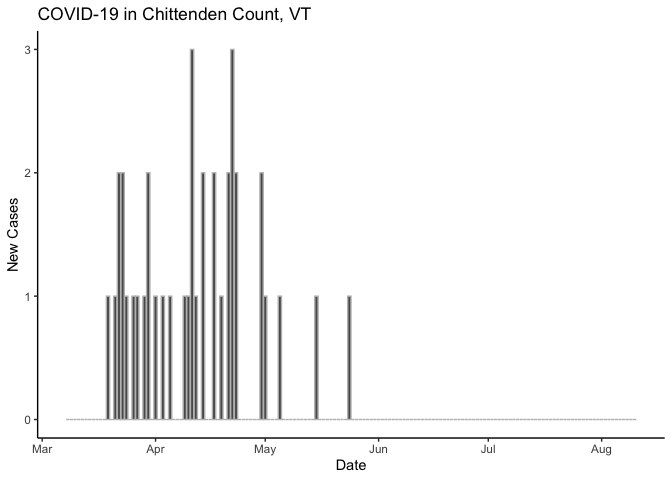
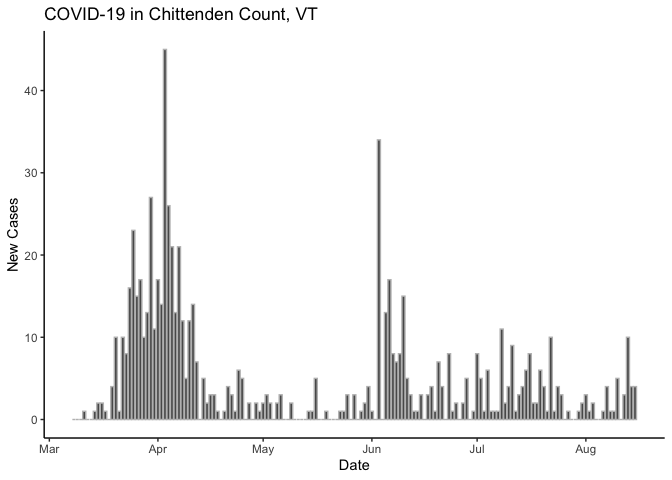
updates through 2020-08-15

diff --git a/chittenden-covid-plots.md b/chittenden-covid-plots.md
@@ -1,0 +1,59 @@
+    CHITTENDEN_DATA_URL <- "https://services1.arcgis.com/BkFxaEFNwHqX3tAw/arcgis/rest/services/VIEW_EPI_CountyDailyCountTS_PUBLIC/FeatureServer/0/query?where=CNTYGEOID%3D50007&outFields=date,C_New,D_New&returnGeometry=false&outSR=4326&f=json"
+
+
+    getLatestCovidData <- function() {
+      res <- httr::GET(CHITTENDEN_DATA_URL)
+      jsonlite::fromJSON(httr::content(res, "text"))$features$attributes %>%
+        rename(new_cases=C_New, new_deaths=D_New) %>%
+        mutate(date = as.POSIXct(date/1000, origin="1970-01-01"))  
+    }
+
+    covid <- getLatestCovidData()
+    tail(covid)
+
+    ##           date new_cases new_deaths
+    ## 156 2020-08-10         5          0
+    ## 157 2020-08-11         0          0
+    ## 158 2020-08-12         3          0
+    ## 159 2020-08-13        10          0
+    ## 160 2020-08-14         4          0
+    ## 161 2020-08-15         4          0
+
+    ggplot(covid) +
+      geom_bar(aes(x=date, y=new_cases), stat='identity', color='gray') +
+      labs(x="Date", y="New Cases", title="COVID-19 in Chittenden Count, VT") +
+      theme_classic()
+
+![](chittenden-covid-plots_files/figure-markdown_strict/unnamed-chunk-3-1.png)
+
+    ggplot(covid) +
+      geom_bar(aes(x=date, y=new_deaths), stat='identity', color='gray') +
+      labs(x="Date", y="New Cases", title="COVID-19 in Chittenden Count, VT") +
+      theme_classic()
+
+![](chittenden-covid-plots_files/figure-markdown_strict/unnamed-chunk-4-1.png)
+
+    ggplot(covid) +
+      geom_bar(aes(x=date, y=new_cases), stat='identity', color='gray') +
+      geom_line(aes(x=date, y=cumsum(new_cases)), color="gray") +
+      labs(x="Date", y="New Cases", title="COVID-19 in Chittenden Count, VT") +
+      theme_minimal()
+
+![](chittenden-covid-plots_files/figure-markdown_strict/unnamed-chunk-5-1.png)
+
+    ggplot(covid %>% mutate(active_cases = RcppRoll::roll_sumr(new_cases, n=14) / 163774 * 100000)) +
+      geom_bar(aes(x=date, y=active_cases), stat='identity', color="gray") +
+      labs(x="Date", y="New Cases, Last 14 Days", title="COVID-19 in Chittenden Count, VT") +
+      theme_minimal()
+
+    ## Warning: Removed 13 rows containing missing values (position_stack).
+
+![](chittenden-covid-plots_files/figure-markdown_strict/unnamed-chunk-6-1.png)
+
+    ggplot(covid) +
+      geom_bar(aes(x=date, y=new_deaths), stat='identity', color='gray') +
+      geom_line(aes(x=date, y=cumsum(new_deaths)), color="gray") +
+      labs(x="Date", y="New Deaths", title="COVID-19 in Chittenden Count, VT") +
+      theme_minimal()
+
+![](chittenden-covid-plots_files/figure-markdown_strict/unnamed-chunk-7-1.png)
